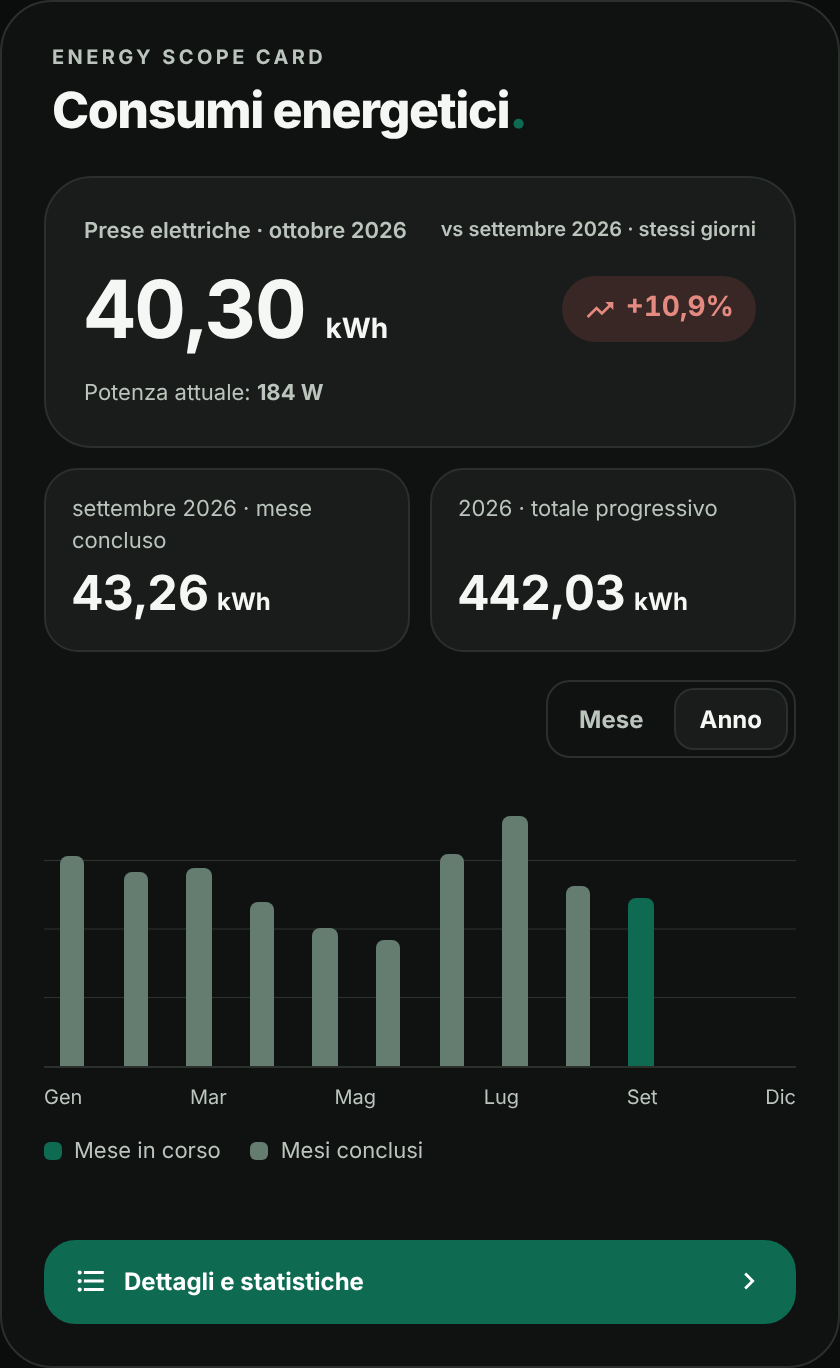
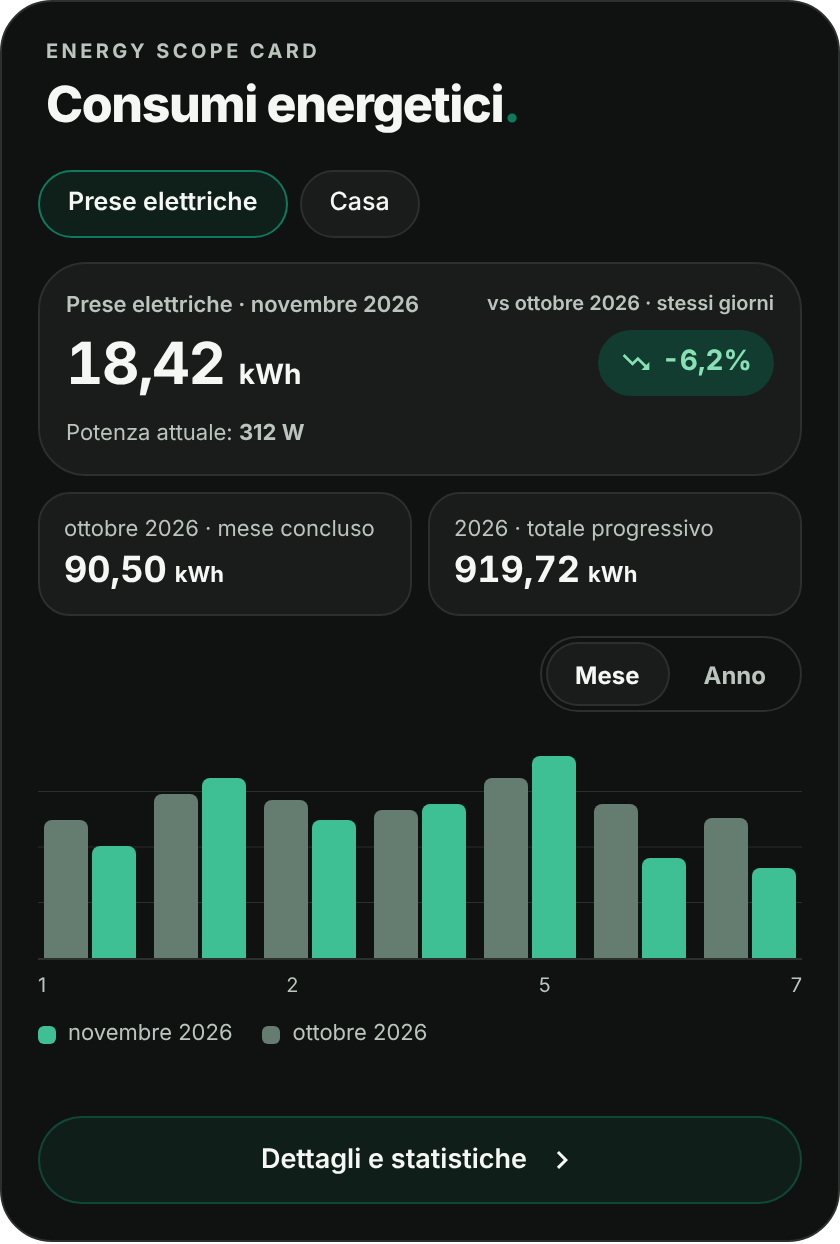
Refine layout, optional header and details popup
- Center the details button label and chevron as a group
- Add show_eyebrow and show_title options (default on)
- Reduce summary tile number size and prevent digit splitting
- Align popup with the Edera cards standard
- Refresh README screenshots and features list

diff --git a/dist/energy-scope-card.js b/dist/energy-scope-card.js
@@ -54,6 +54,8 @@
       house_source_name: String(raw.house_source_name ?? 'Casa').slice(0, 65),
       eyebrow: String(raw.eyebrow ?? 'ENERGY SCOPE CARD').slice(0, 70),
       title: String(raw.title ?? 'Consumi energetici').slice(0, 70),
+      show_eyebrow: raw.show_eyebrow !== false,
+      show_title: raw.show_title !== false,
       theme_mode: THEMES.includes(raw.theme_mode) ? raw.theme_mode : 'auto',
       show_month_chart: raw.show_month_chart !== false,
       show_year_chart: raw.show_year_chart !== false,
@@ -187,26 +189,27 @@
     :host{display:block;min-width:0;font-family:var(--ha-font-family-body,var(--paper-font-body1_-_font-family,Roboto,-apple-system,BlinkMacSystemFont,"Segoe UI",sans-serif));font-size:14px;color:var(--es-text)}
     *{box-sizing:border-box}
     button{font:inherit;cursor:pointer;color:inherit;-webkit-tap-highlight-color:transparent}
-    :host([data-theme=light]){--es-bg:#FFFFFF;--es-panel:#F1F3EF;--es-text:#19221E;--es-muted:#68716C;--es-line:#E3E7E2;--es-other:#B1C5B8;--es-weak:#789A8A;--es-red:#B85D55}
-    :host([data-theme=dark]){--es-bg:#101211;--es-panel:#191c1a;--es-text:#f5f7f4;--es-muted:#bbc5bd;--es-line:#2b302c;--es-other:#657D71;--es-weak:#88A99A;--es-red:#D27369}
+    :host([data-theme=light]){--es-bg:#fafbf9;--es-panel:#f0f2ef;--es-text:#18221c;--es-muted:#56675c;--es-line:#e0e5df;--es-other:#B1C5B8;--es-weak:#789A8A;--es-red:#B85D55;--es-ok:var(--es-accent);--es-btn:var(--es-accent)}
+    :host([data-theme=dark]){--es-bg:#101211;--es-panel:#191c1a;--es-text:#f5f7f4;--es-muted:#bbc5bd;--es-line:#2b302c;--es-other:#657D71;--es-weak:#88A99A;--es-red:#D27369;--es-accent:#0e795d;--es-ok:#3fbf94;--es-btn:var(--es-text)}
     :host{--es-accent:var(--edera-emerald-color,${GREEN})}
     .es-container{container-type:inline-size;min-width:0;max-width:100%}
-    .es-shell{padding:21px;border:1px solid var(--es-line);background:var(--es-bg);border-radius:26px;min-width:0;overflow:hidden}
+    .es-shell{padding:18px;border:1px solid var(--es-line);background:var(--es-bg);border-radius:26px;min-width:0;overflow:hidden}
     .es-header{min-width:0;margin:2px 4px 17px}
     .es-eyebrow{font-size:10px;letter-spacing:1.7px;font-weight:750;line-height:1.1;color:var(--es-muted);text-transform:uppercase;margin:0 0 7px}
+    .es-eyebrow:last-child{margin-bottom:0}
     .es-title{font-size:25px;line-height:1.14;font-weight:780;letter-spacing:-.7px;margin:0;overflow-wrap:anywhere}
-    .es-title b{color:var(--es-accent)}
-    .es-source-tabs{display:flex;gap:6px;flex-wrap:wrap;margin-top:16px}
-    .es-source-tab{border:1px solid var(--es-line);background:var(--es-panel);color:var(--es-text);border-radius:10px;padding:8px 12px;font-size:12px;cursor:pointer}
-    .es-source-tab[aria-pressed=true]{background:var(--es-accent);border-color:var(--es-accent);color:#fff}
-    .es-summary{border:1px solid var(--es-line);border-radius:24px;background:var(--es-panel);padding:19px;margin-top:0;min-width:0}
+    .es-title b{color:var(--es-accent);font-weight:800}
+    .es-source-tabs{display:flex;gap:6px;flex-wrap:wrap;margin:0 0 12px}
+    .es-source-tab{border:1px solid var(--es-line);background:var(--es-panel);color:var(--es-text);border-radius:999px;min-height:34px;padding:0 14px;font-size:12.5px;font-weight:500;cursor:pointer}
+    .es-source-tab[aria-pressed=true]{background:color-mix(in srgb,var(--es-accent) 14%,transparent);border-color:var(--es-accent);color:var(--es-text);font-weight:600}
+    .es-summary{border:1px solid var(--es-line);border-radius:24px;background:var(--es-panel);padding:13px;margin-top:0;min-width:0}
     .es-hero-label{font-size:11px;color:var(--es-muted);font-weight:620}
-    .es-hero{display:flex;flex-direction:column;gap:10px;min-width:0}
+    .es-hero{display:flex;flex-direction:column;gap:6px;min-width:0}
     .es-hero-head{display:flex;align-items:flex-start;justify-content:space-between;gap:8px;min-width:0}
     .es-hero-head .es-hero-label{min-width:0;flex:1}
     .es-comparison-context{font-size:10px;font-weight:580;line-height:1.4;color:var(--es-muted);text-align:right;flex:none;max-width:47%}
     .es-comparison-context .es-context-short,.es-comparison-context .es-context-tiny{display:none}
-    .es-hero-values{display:flex;align-items:center;justify-content:space-between;gap:8px;min-width:0}
+    .es-hero-values{display:flex;align-items:center;justify-content:space-between;flex-wrap:wrap;gap:6px 8px;min-width:0}
     .es-hero-values .es-total{min-width:0}
     .es-hero-values .es-comparison-pill{margin-left:auto}
     .es-comparison-pill{display:inline-flex;align-items:center;justify-content:center;gap:5px;white-space:nowrap;min-width:0;flex:none;border-radius:999px;padding:8px 11px;font-size:14px;line-height:1.2;font-weight:750;font-variant-numeric:tabular-nums}
@@ -217,55 +220,56 @@
     :host([data-theme=light]) .es-comparison-pill.bad{background:#fcebe9;color:#b85d55}
     :host([data-theme=light]) .es-comparison-pill.good{background:#e2f0e7;color:#0E6B52}
     :host([data-theme=light]) .es-comparison-pill.na{background:#e8ede9;color:#68716C}
-    .es-total{font-size:40px;font-weight:650;line-height:1.16;letter-spacing:-.7px;font-variant-numeric:tabular-nums;margin:0;overflow-wrap:anywhere}
+    .es-total{font-size:29px;font-weight:650;line-height:1.15;letter-spacing:-.7px;font-variant-numeric:tabular-nums;margin:0}
     .es-unit{font-size:14px;font-weight:650;color:var(--es-text);letter-spacing:0}
-    .es-subgrid{display:grid;grid-template-columns:repeat(2,minmax(0,1fr));gap:10px;margin-top:10px;align-items:stretch}
-    .es-stat{padding:12px 13px;min-width:0;background:var(--es-panel);border:1px solid var(--es-line);border-radius:17px;display:grid;grid-template-rows:minmax(34px,auto) auto;align-content:start}
-    .es-stat-label{font-size:11px;color:var(--es-muted);line-height:1.4;align-self:start;min-height:34px}
-    .es-stat-val{font-size:24px;line-height:1.3;font-weight:750;font-variant-numeric:tabular-nums;margin:0;overflow-wrap:anywhere;display:flex;align-items:baseline;gap:4px;min-width:0}
-    .es-stat-unit{font-size:12px;font-weight:650;color:var(--es-text)}
+    .es-subgrid{display:grid;grid-template-columns:repeat(2,minmax(0,1fr));gap:8px;margin-top:8px;align-items:stretch}
+    .es-stat{padding:10px 12px;min-width:0;background:var(--es-panel);border:1px solid var(--es-line);border-radius:16px;display:grid;grid-template-rows:1fr auto;align-content:start}
+    .es-stat-label{font-size:11px;color:var(--es-muted);line-height:1.4;align-self:start}
+    .es-stat-val{font-size:18px;line-height:1.25;font-weight:650;font-variant-numeric:tabular-nums;margin:2px 0 0;display:flex;flex-wrap:wrap;align-items:baseline;column-gap:4px;min-width:0}
+    .es-stat-unit{font-size:11px;font-weight:650;color:var(--es-text)}
     .es-note{font-size:11px;line-height:1.5;color:var(--es-muted);margin-top:10px}
-    .es-charthead{display:flex;align-items:center;justify-content:flex-end;gap:10px;flex-wrap:wrap;margin-top:14px}
-    .es-tabs{display:flex;gap:4px;padding:4px;border:1px solid var(--es-line);border-radius:12px;background:var(--es-panel)}
-    .es-tab{font-size:12px;font-weight:650;cursor:pointer;border:0;border-radius:9px;background:transparent;color:var(--es-muted);padding:7px 12px}
+    .es-charthead{display:flex;align-items:center;justify-content:flex-end;gap:10px;flex-wrap:wrap;margin-top:10px}
+    .es-tabs{display:flex;gap:4px;padding:3px;border:1px solid var(--es-line);border-radius:999px;background:var(--es-panel)}
+    .es-tab{font-size:12px;font-weight:650;cursor:pointer;border:0;border-radius:999px;background:transparent;color:var(--es-muted);min-height:30px;padding:0 14px}
     .es-tab[aria-pressed=true]{color:var(--es-text);background:var(--es-bg);box-shadow:0 0 0 1px var(--es-line)}
     :host([data-theme=dark]) .es-tabs{background:var(--es-bg)}
     :host([data-theme=dark]) .es-tab[aria-pressed=true]{background:var(--es-panel)}
-    .es-graph-region{min-height:210px}
-    .es-plot{height:138px;display:grid;grid-auto-flow:column;grid-auto-columns:minmax(0,1fr);gap:3px;align-items:stretch;margin-top:17px;border-bottom:1px solid var(--es-line);background:linear-gradient(to top,transparent 24.6%,var(--es-line) 25%,transparent 25.4%,transparent 49.6%,var(--es-line) 50%,transparent 50.4%,transparent 74.6%,var(--es-line) 75%,transparent 75.4%)}
+    .es-graph-region{min-height:176px}
+    .es-plot{height:112px;display:grid;grid-auto-flow:column;grid-auto-columns:minmax(0,1fr);gap:3px;align-items:stretch;margin-top:12px;border-bottom:1px solid var(--es-line);background:linear-gradient(to top,transparent 24.6%,var(--es-line) 25%,transparent 25.4%,transparent 49.6%,var(--es-line) 50%,transparent 50.4%,transparent 74.6%,var(--es-line) 75%,transparent 75.4%)}
     .es-barcell{height:100%;display:flex;align-items:end;justify-content:center;gap:2px;min-width:0}
-    .es-bar{min-width:2px;max-width:24px;width:43%;background:var(--es-accent);border-radius:4px 4px 0 0}
+    .es-bar{min-width:2px;max-width:24px;width:43%;background:var(--es-ok);border-radius:4px 4px 0 0}
     .es-bar.other{background:var(--es-other)}
-    .es-axis{font-size:10px;color:var(--es-muted);display:flex;justify-content:space-between;gap:5px;margin-top:9px}
-    .es-legend{display:flex;gap:15px;flex-wrap:wrap;color:var(--es-muted);font-size:11px;margin-top:13px;min-height:18px}
-    .es-dot{display:inline-block;width:9px;height:9px;border-radius:3px;background:var(--es-accent);margin-right:6px;vertical-align:middle}
+    .es-axis{font-size:10px;color:var(--es-muted);display:flex;justify-content:space-between;gap:5px;margin-top:7px}
+    .es-legend{display:flex;gap:15px;flex-wrap:wrap;color:var(--es-muted);font-size:11px;margin-top:10px}
+    .es-dot{display:inline-block;width:9px;height:9px;border-radius:3px;background:var(--es-ok);margin-right:6px;vertical-align:middle}
     .es-dot.other{background:var(--es-other)}
-    .es-chart-empty{margin-top:15px;padding:24px 12px;border:1px dashed var(--es-line);border-radius:14px;color:var(--es-muted);font-size:12px;text-align:center;min-height:190px;display:flex;align-items:center;justify-content:center}
-    .es-details{display:flex;align-items:center;justify-content:space-between;width:100%;min-width:0;gap:12px;min-height:42px;padding:10px 14px;margin-top:14px;border:1px solid var(--es-accent);border-radius:16px;background:var(--es-accent);color:#fff;text-align:left;font-weight:650;font-size:12px;cursor:pointer}
-    .es-details[aria-expanded=true],.es-details:hover{background:var(--es-accent);color:#fff}
-    .es-details-label{display:inline-flex;align-items:center;gap:8px;min-width:0}.es-details-label ha-icon{display:inline-flex;align-items:center;justify-content:center}.es-details ha-icon{--mdc-icon-size:17px;width:17px;height:17px}
+    .es-chart-empty{margin-top:12px;padding:24px 12px;border:1px dashed var(--es-line);border-radius:14px;color:var(--es-muted);font-size:12px;text-align:center;min-height:150px;display:flex;align-items:center;justify-content:center}
+    .es-details{display:flex;align-items:center;justify-content:center;gap:8px;width:100%;min-width:0;min-height:44px;padding:10px 14px;margin-top:14px;border-radius:999px;font-weight:600;font-size:13.5px;line-height:1.2;text-align:center;cursor:pointer;color:var(--es-btn);border:1px solid color-mix(in srgb,var(--es-accent) 45%,transparent);background:color-mix(in srgb,var(--es-accent) 12%,transparent)}
+    .es-details:hover,.es-details[aria-expanded=true]{background:color-mix(in srgb,var(--es-accent) 22%,transparent);color:var(--es-btn)}
+    .es-details ha-icon{display:block;flex:none;margin:0;--mdc-icon-size:18px;width:18px;height:18px;color:inherit}
     .es-empty{padding:20px 4px;color:var(--es-muted);line-height:1.6;font-size:13px}
-    .es-backdrop{position:fixed;inset:0;z-index:9999;background:#0009;display:grid;place-items:center;overflow:hidden;overscroll-behavior:none;padding:max(20px,env(safe-area-inset-top)) 18px max(20px,env(safe-area-inset-bottom))}
-    .es-dialog{display:flex;flex-direction:column;background:var(--es-bg);color:var(--es-text);border:1px solid var(--es-line);border-radius:26px;width:min(390px,100%);max-height:min(82vh,720px);max-height:min(82dvh,720px);box-shadow:0 18px 60px #0005;overflow:hidden;overscroll-behavior:contain;min-width:0}
-    .es-dialog-head{display:flex;align-items:center;justify-content:space-between;gap:10px;min-height:62px;padding:18px 19px 12px;flex:none;background:var(--es-bg)}
+    .es-backdrop{position:fixed;inset:0;z-index:9999;background:#0009;display:grid;place-items:center;overflow:hidden;overscroll-behavior:none;padding:max(16px,env(safe-area-inset-top)) max(16px,env(safe-area-inset-right)) max(16px,env(safe-area-inset-bottom)) max(16px,env(safe-area-inset-left))}
+    .es-dialog{display:flex;flex-direction:column;background:var(--es-bg);color:var(--es-text);border:1px solid var(--es-line);border-radius:26px;width:min(390px,100%);max-width:100%;max-height:min(88vh,680px);max-height:min(88dvh,680px);box-shadow:0 18px 60px #0005;overflow:hidden;overscroll-behavior:contain;min-width:0}
+    .es-dialog-head{display:flex;align-items:center;justify-content:space-between;gap:12px;min-height:62px;padding:16px 16px 12px 18px;flex:none;background:var(--es-bg);border-bottom:1px solid var(--es-line)}
     .es-dialog-head-title{font-size:17px;font-weight:600;line-height:1.3}.es-dialog-sub{font-size:12px;color:var(--es-muted);margin-top:4px}
-    .es-close{display:flex;align-items:center;justify-content:center;border:0;border-radius:50%;background:var(--es-panel);color:var(--es-text);width:36px;height:36px;flex:none;line-height:0;padding:0;cursor:pointer}
+    .es-close{display:flex;align-items:center;justify-content:center;border:1px solid var(--es-line);border-radius:50%;background:var(--es-panel);color:var(--es-text);width:40px;height:40px;flex:none;line-height:0;padding:0;cursor:pointer}
     .es-close ha-icon{display:block;width:18px;height:18px;--mdc-icon-size:18px;flex:none}
-    .es-dialog-scroll{min-height:0;overflow-y:auto;overflow-x:hidden;overscroll-behavior:contain;-webkit-overflow-scrolling:touch;touch-action:pan-y;padding:8px 19px 19px}
-    .es-popup-label{font-size:13px;font-weight:650;line-height:1.4;margin:4px 0 10px}
-    .es-popup-row{display:flex;align-items:flex-start;justify-content:space-between;gap:16px;padding:10px 0;border:0;font-size:12px;line-height:1.5}
+    .es-dialog-scroll{min-height:0;overflow-y:auto;overflow-x:hidden;overscroll-behavior:contain;-webkit-overflow-scrolling:touch;touch-action:pan-y;padding:12px 18px 18px}
+    .es-popup-label{font-size:13px;font-weight:600;line-height:1.4;margin:0 0 2px}
+    .es-popup-row{display:flex;align-items:center;justify-content:space-between;gap:12px;background:var(--es-panel);border:1px solid var(--es-line);padding:12px 14px;border-radius:14px;margin-top:8px;font-size:12px;line-height:1.5}
     .es-popup-row span{color:var(--es-muted);min-width:0;flex:1}.es-popup-row strong{font-weight:650;font-variant-numeric:tabular-nums;text-align:right;max-width:48%;overflow-wrap:anywhere}
-    .es-popup-panel{border:1px solid var(--es-line);background:var(--es-panel);border-radius:16px;padding:13px;margin:9px 0 15px}
-    .es-popup-big{font-size:25px;font-weight:650;line-height:1.16;font-variant-numeric:tabular-nums;margin-top:6px;display:flex;align-items:baseline;gap:5px}
-    .es-popup-section{margin-top:25px}
-    .es-popup-section .es-popup-label{font-size:13px;font-weight:650;margin-bottom:13px}
+    .es-popup-panel{border:1px solid var(--es-line);background:var(--es-panel);border-radius:16px;padding:13px;margin:9px 0 0}
+    .es-popup-big{font-size:25px;font-weight:650;line-height:1.16;font-variant-numeric:tabular-nums;margin-top:6px;display:flex;flex-wrap:wrap;align-items:baseline;gap:0 5px}
+    .es-popup-section{margin-top:17px}
     button:focus-visible{outline:2px solid var(--es-accent);outline-offset:2px}
-    @container (max-width:395px){.es-shell{padding:15px;border-radius:24px}.es-title{font-size:23px}.es-total{font-size:36px}.es-stat-val{font-size:22px}.es-plot{height:126px}.es-chart-empty{min-height:173px}.es-graph-region{min-height:196px}.es-summary{padding:15px}.es-hero{gap:10px}.es-comparison-context .es-context-long{display:none}.es-comparison-context .es-context-short{display:inline}}
-    @container (max-width:325px){.es-total{font-size:36px}.es-unit{font-size:12px}.es-comparison-pill{font-size:12px;padding:7px 9px}.es-stat{padding:10px}.es-stat-val{font-size:22px}.es-comparison-context .es-context-short{display:none}.es-comparison-context .es-context-tiny{display:inline}}
-    @media(max-width:599px){.es-dialog{width:min(350px,100%);max-height:min(68vh,560px);max-height:min(68dvh,560px);border-radius:24px}.es-backdrop{padding:max(20px,env(safe-area-inset-top)) 18px max(20px,env(safe-area-inset-bottom))}}
-    @media(max-height:480px){.es-dialog{max-height:calc(100dvh - 24px)}}
+    @container (max-width:395px){.es-comparison-context .es-context-long{display:none}.es-comparison-context .es-context-short{display:inline}}
+    @container (max-width:380px){.es-shell{padding:13px;border-radius:23px}.es-title{font-size:23px}.es-summary{padding:10px}.es-total{font-size:25px}.es-stat{padding:9px 10px}.es-stat-val{font-size:17px}.es-plot{height:100px}.es-graph-region{min-height:160px}.es-chart-empty{min-height:140px}}
+    @container (max-width:325px){.es-unit{font-size:12px}.es-comparison-pill{font-size:12px;padding:7px 9px}.es-comparison-context .es-context-short{display:none}.es-comparison-context .es-context-tiny{display:inline}}
+    @container (max-width:310px){.es-shell{padding:10px}.es-header{margin:2px 0 12px}.es-title{font-size:21px}.es-eyebrow{font-size:9px}.es-summary{padding:8px}.es-subgrid{grid-template-columns:minmax(0,1fr)}}
+    @media(max-height:480px){.es-dialog{max-height:calc(100vh - 32px);max-height:calc(100dvh - 32px)}}
+    @media(prefers-reduced-motion:no-preference){.es-details{transition:background .15s}}
     @media(prefers-reduced-motion:reduce){*,*:before,*:after{animation:none!important;transition:none!important;scroll-behavior:auto!important}}
-  `;
+`;
 
   class EnergyScopeCard extends HTMLElement {
     static getStubConfig() { const { type, ...value } = normalize({}); return value; }
@@ -276,6 +280,8 @@
       this._cfg = normalize({}); this._hass = null; this._source = 'plugs'; this._chart = 'month'; this._dialog = false;
       this._records = new Map(); this._signature = ''; this._focusBefore = null; this._modalLock = false;
       this._modalTouch = { x: 0, y: 0 };
+      // Escape closes the popup even when focus has moved out of the card (e.g. after tapping plain text).
+      this._docKey = (e) => { if (e.key === 'Escape' && this._dialog) { e.preventDefault(); this._close(); } };
       this._touchStart = (e) => { if (e.touches?.length === 1) this._modalTouch = { x: e.touches[0].clientX, y: e.touches[0].clientY }; };
       this._touchMove = (e) => { if (e.touches?.length !== 1) return; const t = e.touches[0]; this._protectScroll(e, this._modalTouch.y - t.clientY, Math.abs(this._modalTouch.x - t.clientX) > Math.abs(this._modalTouch.y - t.clientY)); this._modalTouch = { x: t.clientX, y: t.clientY }; };
       this._wheel = (e) => this._protectScroll(e, e.deltaY, Math.abs(e.deltaX) > Math.abs(e.deltaY));
@@ -380,6 +386,7 @@
       document[method]('touchstart', this._touchStart, true);
       document[method]('touchmove', this._touchMove, { capture: true, passive: false });
       document[method]('wheel', this._wheel, { capture: true, passive: false });
+      document[method]('keydown', this._docKey, true);
     }
     _protectScroll(event, delta, horizontal = false) {
       if (!this._dialog || !event.cancelable) return;
@@ -404,7 +411,6 @@
     }
     _onKeydown(e) {
       if (!this._dialog) return;
-      if (e.key === 'Escape') { e.preventDefault(); this._close(); return; }
       if (e.key !== 'Tab') return;
       const focusables = [...this.shadowRoot.querySelectorAll('.es-dialog button:not([disabled])')];
       if (!focusables.length) return;
@@ -465,10 +471,10 @@
              ${canYear ? `<button class="es-tab" type="button" data-chart="year" aria-pressed="${this._chart === 'year'}">Anno</button>` : ''}</div></div>
              <div class="es-graph-region">${this._chartFor(view)}</div>` : ''}
            ${view.error ? `<div class="es-note" role="alert">${esc(view.error)}</div>` : ''}
-           ${this._cfg.show_details ? `<button type="button" class="es-details" data-details="true" aria-haspopup="dialog" aria-expanded="${this._dialog}"><span class="es-details-label">${icon('mdi:format-list-bulleted')} Dettagli e statistiche</span>${icon('mdi:chevron-right')}</button>` : ''}`;
+           ${this._cfg.show_details ? `<button type="button" class="es-details" data-details="true" aria-haspopup="dialog" aria-expanded="${this._dialog}">Dettagli e statistiche ${icon('mdi:chevron-right')}</button>` : ''}`;
       }
       const nextMarkup = `<style>${CSS}</style><div class="es-container"><div class="es-shell">
-         <header class="es-header"><div class="es-eyebrow">${esc(this._cfg.eyebrow)}</div><div class="es-title">${esc(this._cfg.title)}<b>.</b></div></header>
+         ${this._cfg.show_eyebrow || this._cfg.show_title ? `<header class="es-header">${this._cfg.show_eyebrow ? `<div class="es-eyebrow">${esc(this._cfg.eyebrow)}</div>` : ''}${this._cfg.show_title ? `<div class="es-title">${esc(this._cfg.title)}<b>.</b></div>` : ''}</header>` : ''}
          ${hasHouse ? `<div class="es-source-tabs"><button class="es-source-tab" type="button" data-source="plugs" aria-pressed="${this._source !== 'house'}">${esc(this._cfg.source_name)}</button><button class="es-source-tab" type="button" data-source="house" aria-pressed="${this._source === 'house'}">${esc(this._cfg.house_source_name)}</button></div>` : ''}
          ${content}</div></div>${this._dialog && valid ? this._popup(view, source) : ''}`;
       const nextTree = document.createElement('template');
@@ -556,7 +562,9 @@
         ${this._check('show_month_chart','Grafico giornaliero · Mese')}${this._check('show_year_chart','Grafico mensile · Anno')}${this._check('show_comparison','Confronto percentuale con il mese precedente')}${this._check('show_details','Pulsante Dettagli e statistiche')}
         <div class="es-editor-help">Le percentuali sono calcolate sui giorni completi comparabili. Se lo storico è insufficiente, viene mostrato N/D.</div>`;
       if (this._tab === 'aspetto') body = `<div class="es-editor-heading">Identità Edera</div><div class="es-editor-description">Layout coerente con Battery Insight e Cover Flow.</div>
-        ${this._field('eyebrow','Intestazione superiore')}${this._field('title','Titolo card')}
+        ${this._field('eyebrow','Intestazione superiore')}${this._check('show_eyebrow','Mostra intestazione superiore')}
+        ${this._field('title','Titolo card')}${this._check('show_title','Mostra titolo')}
+        <div class="es-editor-help">Il punto verde segue sempre il titolo.</div>
         <div class="es-editor-field"><div class="es-editor-label">Tema</div><select class="es-editor-input" data-key="theme_mode">
           <option value="auto" ${c.theme_mode === 'auto' ? 'selected' : ''}>Automatico · Home Assistant</option>
           <option value="light" ${c.theme_mode === 'light' ? 'selected' : ''}>Edera Light</option>

diff --git a/README.md b/README.md
@@ -34,6 +34,7 @@ Energy Scope Card uses Home Assistant entities and available local Recorder stat
 - **Yearly statistics:** Display monthly consumption throughout the year using available historical statistics.
 - **Instantaneous power:** Optionally display current power consumption in watts.
 - **Multiple energy sources:** Switch between separately configured energy sources, such as individual circuits and whole-home consumption.
+- **Optional heading:** Show or hide the top label and the card title from the visual editor.
 - **Flexible sensors:** Support compatible monthly-reset energy meters and cumulative energy counters.
 - **Detailed statistics:** Open a compact popup with additional energy information.
 - **Visual editor:** Configure energy sensors, optional power sensors, charts, labels, and appearance directly in Home Assistant.
